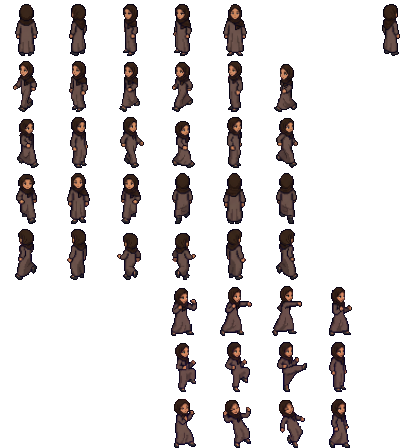
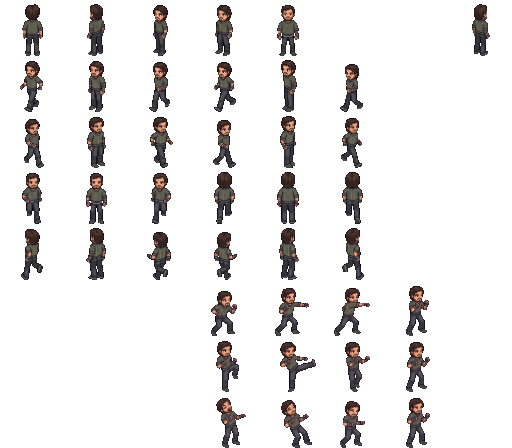
Sprite de Gabriel (Paguera)
- pnj_gabriel : marche depuis sa planche, combat depuis la planche « pull
  olive » (ex-pnj_generique_1, supprimé) ; le Gone Paguera a enfin son sprite ;
- sur la carte il s'appelle Paguera et combat avec son Gone ;
- la planche « voile marron », attribuée à tort à Gabriel, devient
  pnj_generique_6 (« Alternante ») en attendant son nom ;
- consentement : Gabriel = Paguera.

diff --git a/docs/consentement.md b/docs/consentement.md
@@ -55,13 +55,12 @@ main, et nulle part ailleurs.
 | Émile | 18 nov. 2026 | Émile | ☐ | `assets/characters/pnj_emile/`, `tools/planches/pnj_emile.jpg` |
 | Guillaume | 18 nov. 2026 | Guillaume | ☐ | `assets/characters/pnj_guillaume/`, `tools/planches/pnj_guillaume.jpg` |
 | Célia | 18 nov. 2026 | Célia | ☐ | `assets/characters/pnj_celia/`, `tools/planches/pnj_celia.jpg` |
-| Gabriel | 18 nov. 2026 | Gabriel | ☐ | `assets/characters/pnj_gabriel/`, `tools/planches/pnj_gabriel.jpg` |
+| Gabriel | 18 nov. 2026 | Paguera | ☐ | `assets/characters/pnj_gabriel/`, `tools/planches/pnj_gabriel.jpg`, `pnj_gabriel_combat.jpg`, `data/gones/paguera.tres` |
 | Mathéo | 18 nov. 2026 | Mathéo | ☐ | `assets/characters/pnj_matheo/`, `tools/planches/pnj_matheo.jpg` |
 | Nael | 18 nov. 2026 | Nael — Directeur pédagogique | ☐ | *(boss, pas encore de sprite)* |
 | Tristan | 18 nov. 2026 | Tristan — recruteur | ☐ | *(boss, pas encore de sprite)* |
 | *(prénom à compléter)* | 18 nov. 2026 | Matiti | ☐ | *(pas encore de sprite)* |
 | *(prénom à compléter)* | 18 nov. 2026 | CeCissoussou | ☐ | *(pas encore de sprite)* |
-| *(prénom à compléter)* | 18 nov. 2026 | Paguera | ☐ | *(pas encore de sprite)* |
 
 Il reste à leur faire **valider le sprite final** avant la mise en ligne, et à conserver
 les accords écrits hors du dépôt.

diff --git a/CLAUDE.MD b/CLAUDE.MD
@@ -384,10 +384,10 @@ pour les sols et des placeholders pour les batiments.
   planche principale et ne prend que le combat. Le combat (`battle.gd`, `_jouer_combat`)
   les joue : l'attaquant frappe (poing ou pied au hasard), la cible encaisse, l'ennemi
   est retourné en miroir. L'image est calée sur la hauteur du cadre (`_afficher_image`).
-  Faits : Gabriel, Émile, Julian, Mathéo, Paloma (marche d'origine + combat), Thibaut
-  (refait entièrement depuis sa planche de combat). **`pnj_generique_1` à `_5`** : planches
-  reçues sans nom (pull olive, t-shirt marine, pull rayé, polo vert, polo noir sans
-  combat), à renommer quand on saura qui c'est. Leur marche gauche/droite/haut reprend
+  Faits : Gabriel (Gone **Paguera**, pull olive), Émile, Julian, Mathéo, Paloma (marche
+  d'origine + combat), Thibaut (refait entièrement depuis sa planche de combat).
+  **`pnj_generique_2` à `_6`** : planches reçues sans nom (t-shirt marine, pull rayé, polo
+  vert, polo noir sans combat, voile marron), à renommer quand on saura qui c'est. Leur marche gauche/droite/haut reprend
   bas-gauche/bas-droite/haut-gauche (la planche de combat n'en a pas).
   **Planches découpées le 18 nov. 2026** : `joueur_moustachette` (branchée dans
   `GameState.HEROS`, choisie au prologue), `pnj_julian` et `pnj_guillaume`
